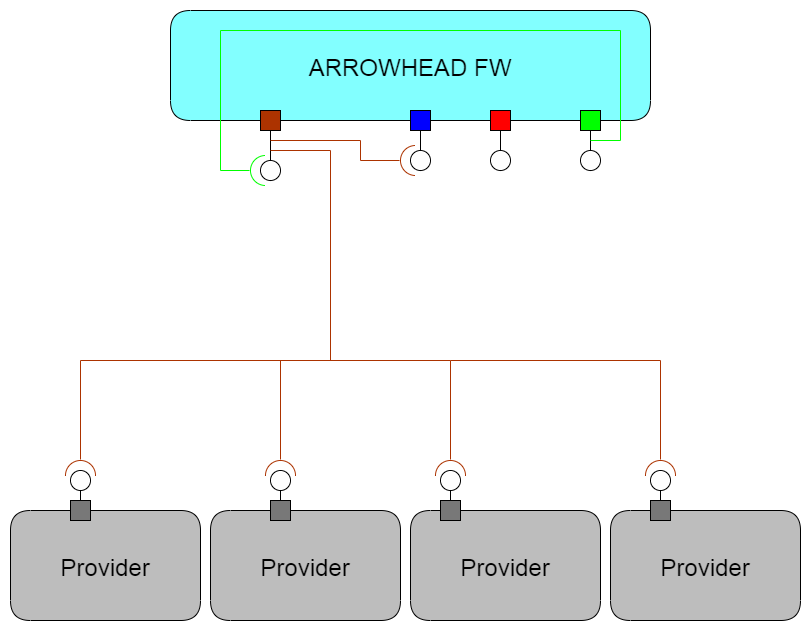
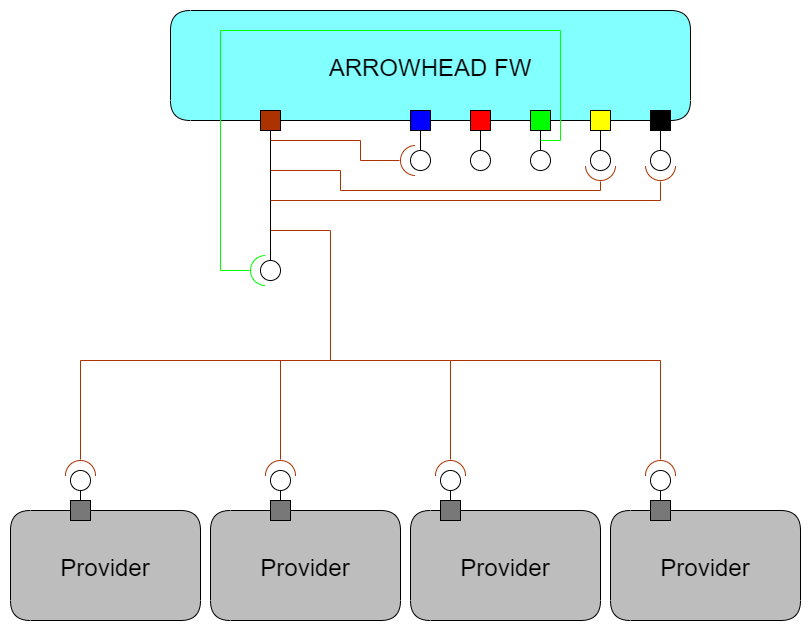
Update QualityOfServiceMonitor-SysDD.md

diff --git a/qos-monitor/documentation/QualityOfServiceMonitor-SysDD.md b/qos-monitor/documentation/QualityOfServiceMonitor-SysDD.md
@@ -6,6 +6,8 @@ The purpose of QoS Monitor supporting core system is providing QoS (Quality of S
 ![#1589F0](https://placehold.it/15/1589F0/000000?text=+) `AH Service Registry`
 ![#f03c15](https://placehold.it/15/f03c15/000000?text=+) `AH Authorization` 
 ![#c5f015](https://placehold.it/15/c5f015/000000?text=+) `AH Orchestrator / QoS Manager`
+![#ffd33d](https://placehold.it/15/fd33d/000000?text=+) `AH Gatekeeper`
+![#24292e](https://placehold.it/15/24292e/000000?text=+) `AH Gateway`
 ![#ffcc44](https://placehold.it/15/a33c00/000000?text=+) `AH QoS Monitor`
 ![Alt text](figures/overview.png)
 
